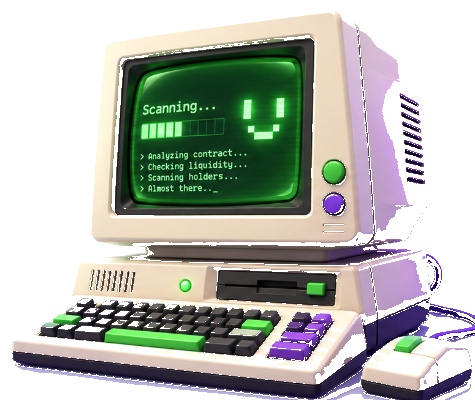
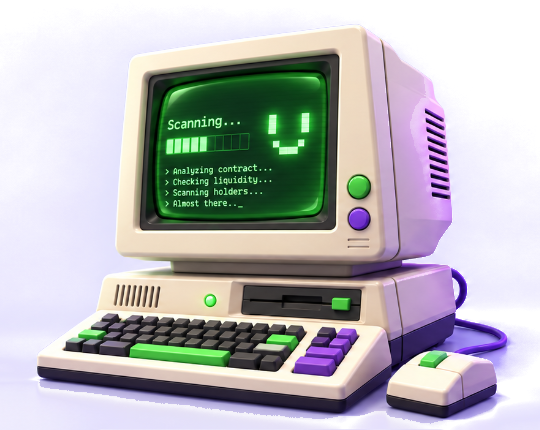
fix: reset hero asset to seamless 3D computer mascot with green smile only

diff --git a/src/components/MascotScanner.tsx b/src/components/MascotScanner.tsx
@@ -4,10 +4,7 @@ export const MascotScanner: React.FC = () => {
   return (
     <div className="relative flex flex-col items-center justify-center w-full max-w-[560px] sm:max-w-[640px] lg:max-w-[680px] mx-auto select-none">
       
-      {/* Soft Bottom Floor Shadow Pool */}
-      <div className="absolute -bottom-2 left-1/2 -translate-x-1/2 w-[70%] h-12 bg-[#1D103A]/20 rounded-[100%] blur-xl pointer-events-none" />
-
-      {/* High-Resolution 100% Transparent 3D Computer Mascot */}
+      {/* High-Quality 3D Computer Mascot */}
       <div className="relative z-10 w-full flex justify-center">
         <img
           src="/assets/mascot-v2.png"

diff --git a/src/components/HeroScanner.tsx b/src/components/HeroScanner.tsx
@@ -10,7 +10,7 @@ export const HeroScanner: React.FC = () => {
   return (
     <section className="relative w-full max-w-site mx-auto px-6 sm:px-10 xl:px-14 pt-4 pb-20 flex flex-col items-center justify-center">
       
-      {/* Centered Clean Composition: Mascot -> Token Input directly below */}
+      {/* Centered Approved Composition: Mascot -> Token Input directly below */}
       <div className="w-full flex flex-col items-center justify-center">
         
         {/* Large 3D Computer Mascot (Centered) */}
